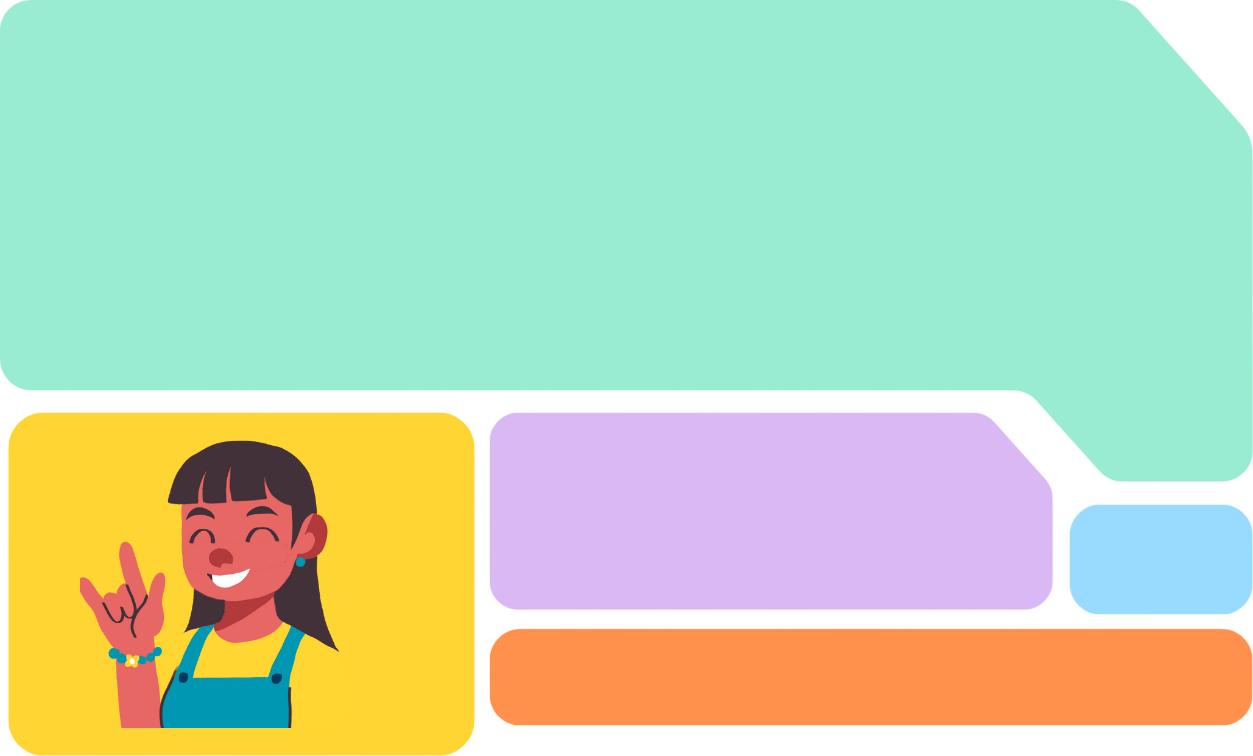
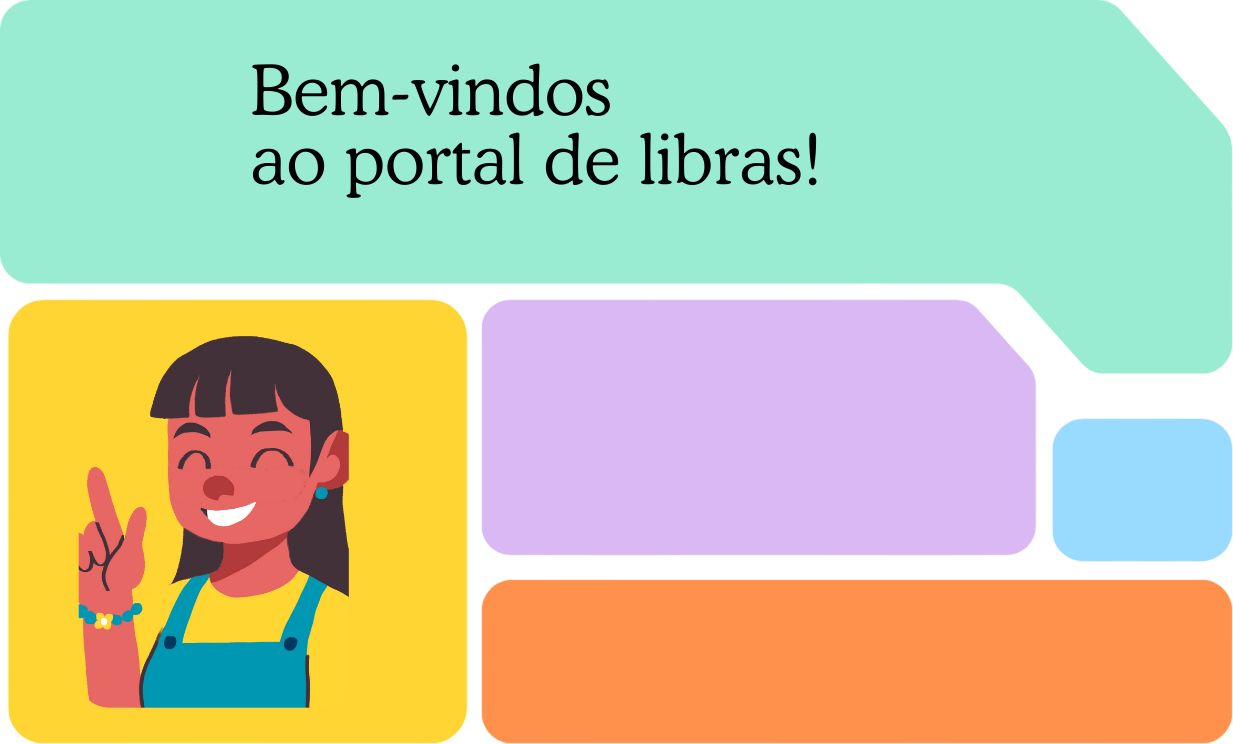
fix: back

diff --git a/src/pages/Video/Video.jsx b/src/pages/Video/Video.jsx
@@ -17,7 +17,7 @@ export default function Video() {
           playing
           controls
           width="100%"
-          height="100vh"
+          height="90vh"
           style={{ borderRadius: '12px' }}
         />
       ) : (
